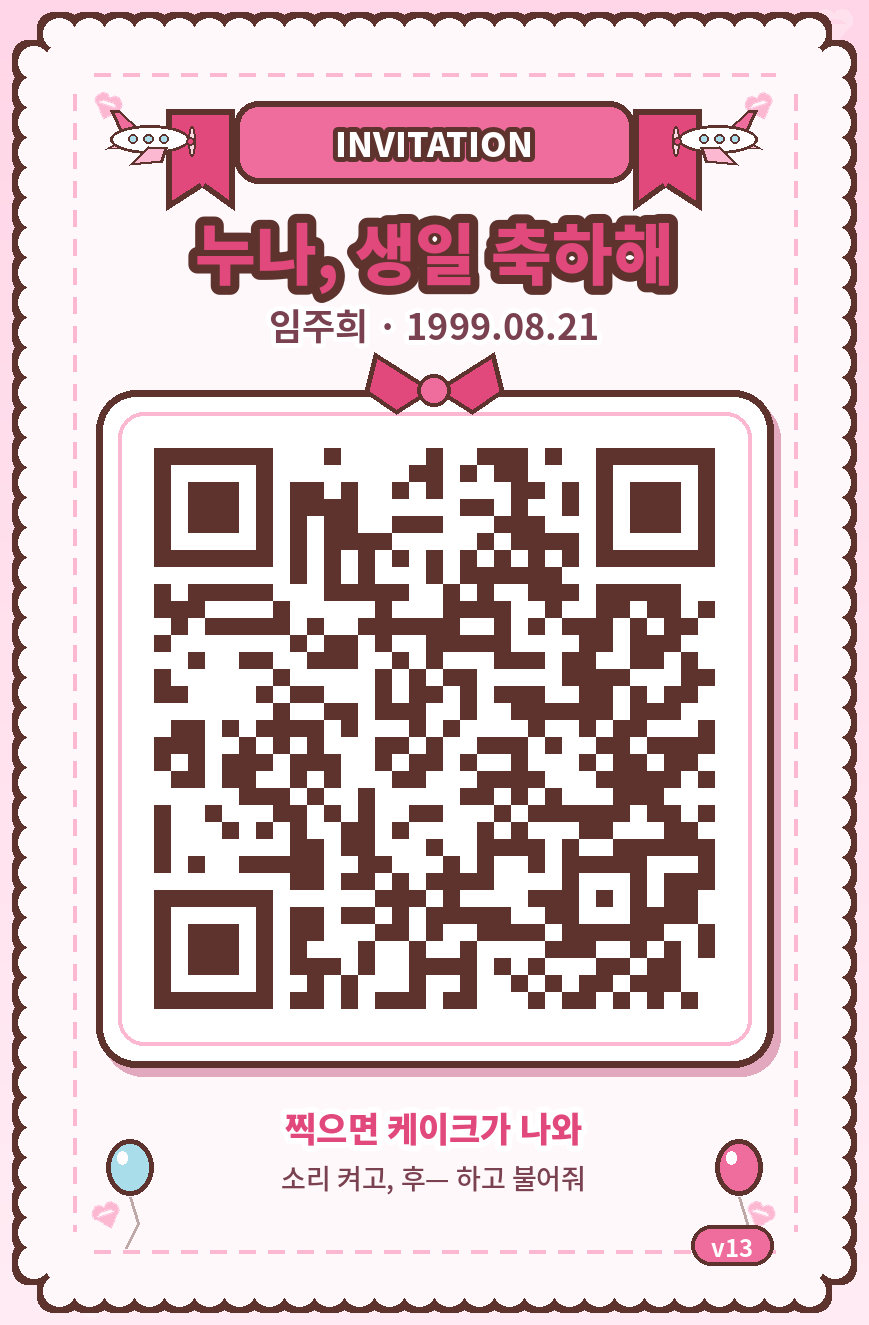
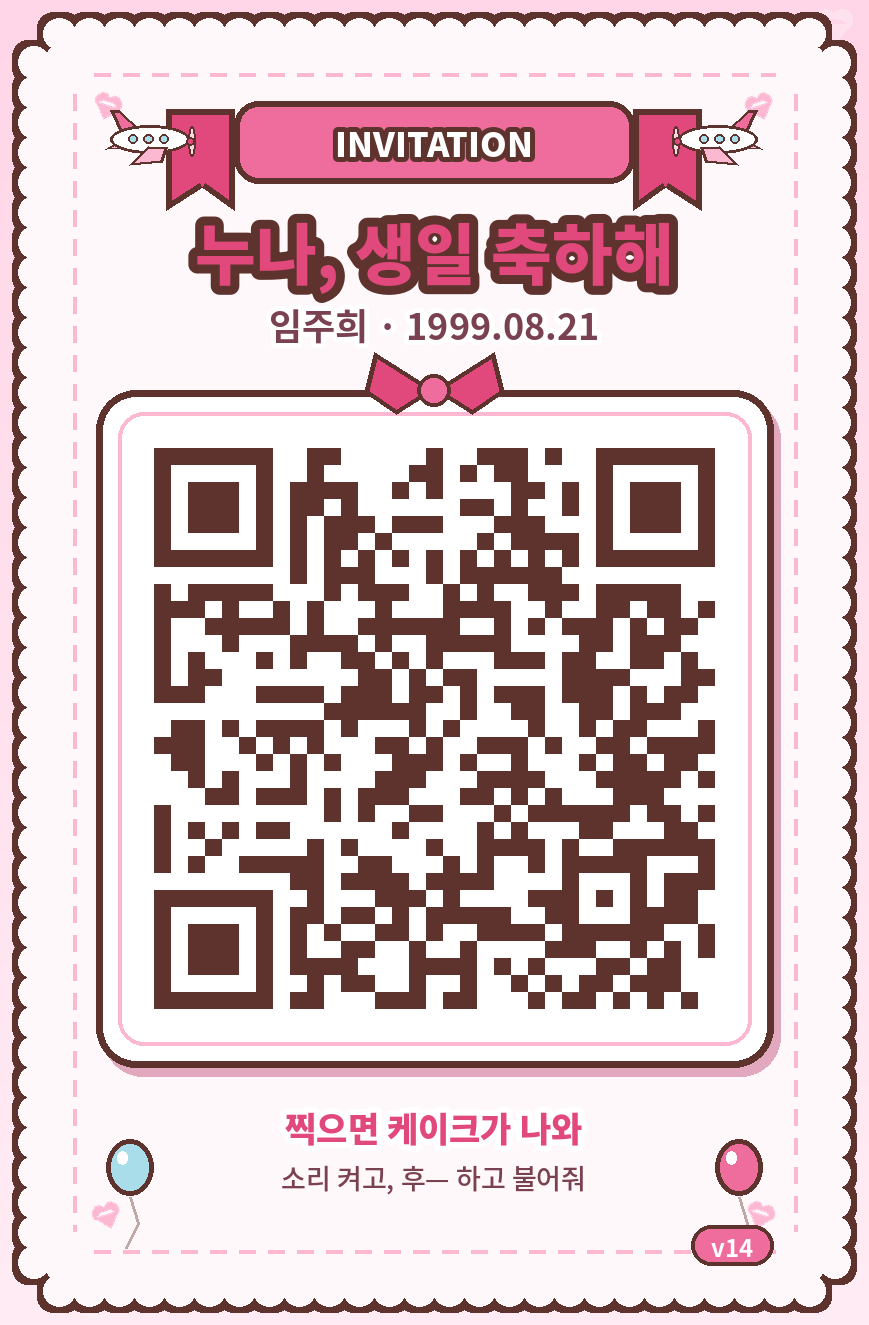
v14: 편지 내용

diff --git a/index.html b/index.html
@@ -219,15 +219,20 @@ const CONFIG = {
   숨구분: 0.28,     // 노래에도 꺼지면 올리고(0.4), 불어도 안 꺼지면 내리세요(0.18)
 
   편지: [
-    "누나, 오늘은 하루 종일",
-    "좋은 일만 생겼으면 좋겠어.",
-    "고맙다는 말은 쑥스러워서",
-    "이렇게 만들어 봤어.",
-    "생일 진짜 축하해!"
+    "주희 누나 생일 축하해",
+    "내가 누나 항상 존경하고",
+    "고맙게 생각하는거 알지?",
+    "지금은 내가 돈을",
+    "많이 벌지 못해서",
+    "큰 선물은 못 주지만",
+    "나중에 내 꿈을 이루면",
+    "누나에게 받은 거에",
+    "몇배로 돌려줄게.",
+    "다시 한 번 생일 축하해."
   ],
-  서명: "— 하나뿐인 동생이",
+  서명: "— 동생 태민",
   노래재생: true,
-  버전: "v13"
+  버전: "v14"
 };
 /* ══════════════════════════════════════════ */
 
